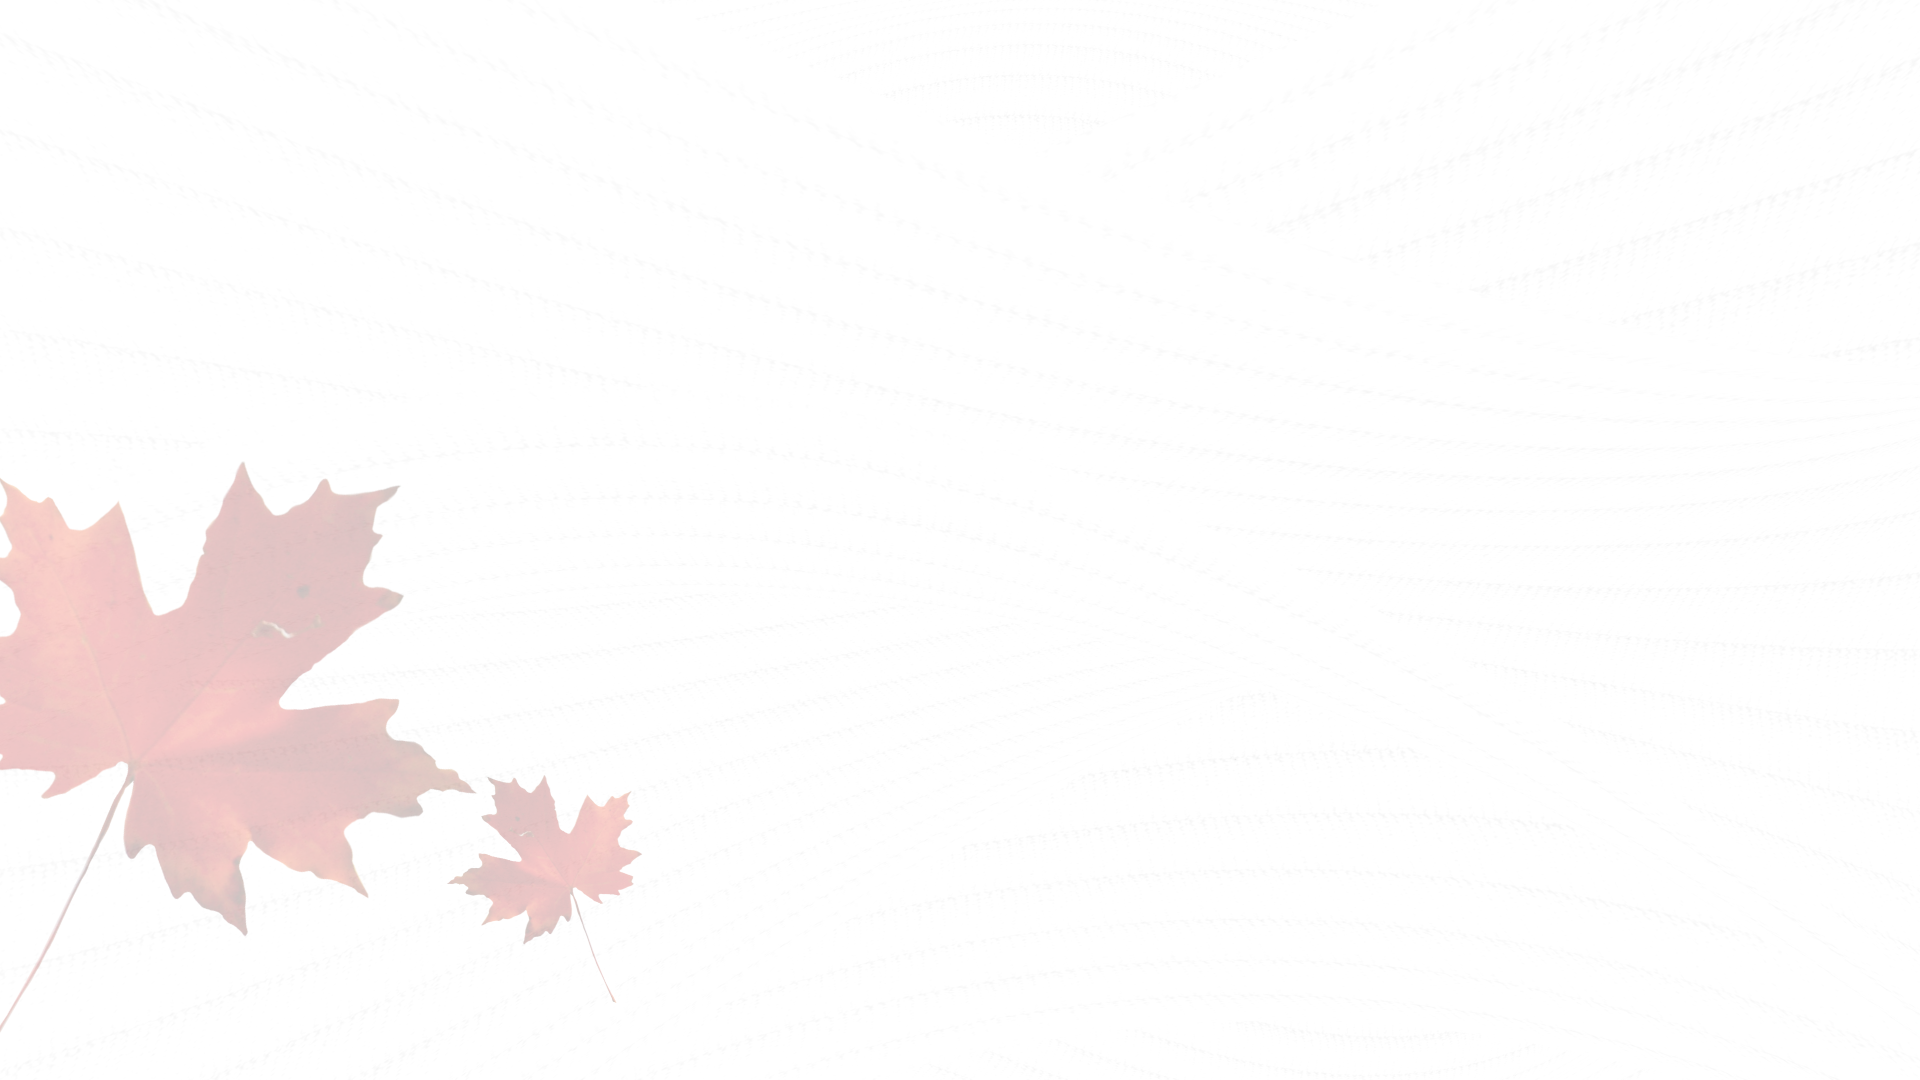
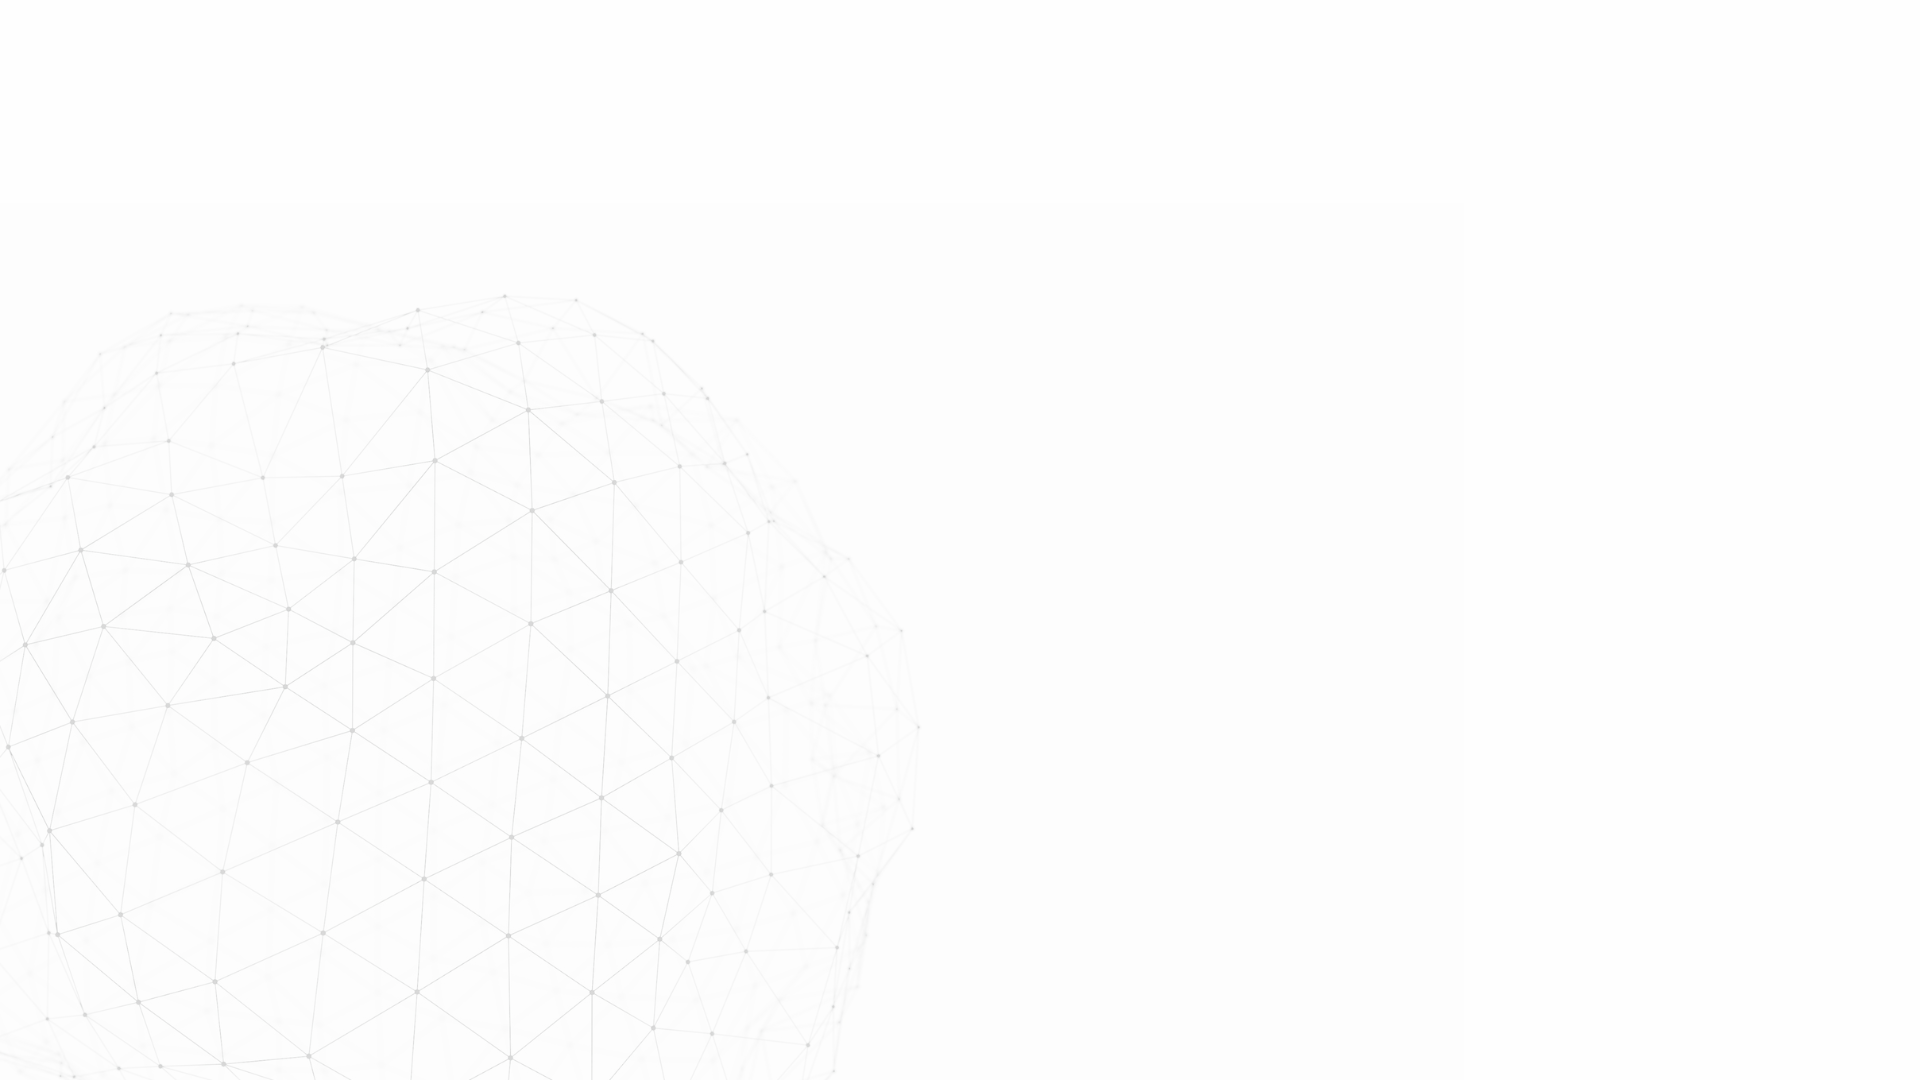
Tuong 16/6 lan 2

Changed region(s): [[0.0, 0.4278, 0.3438, 0.8861]]

diff --git a/index.html b/index.html
@@ -130,8 +130,7 @@
 
 
     <!-- About Section -->
-    <section id="about" class="about section">
-
+    <section id="about" class="about section" style="padding-bottom: 10px; margin-bottom: 0;">
       <div class="container" data-aos="fade-up">
         <div class="row gx-0">
 
@@ -161,71 +160,7 @@
 
     <!-- Values Section -->
     <section id="values" class="values section">
-
-      <!-- Section Title -->
-      <div class="container section-title" data-aos="fade-up">
-<p style="color: #CC4448;">OUR VALUES<br></p>
-      </div><!-- End Section Title -->
-
-      <div class="container">
-        
-        <div class="row gy-4">
-
-<div class="row">
-  <!-- Card 1 -->
-  <div class="col-lg-4" data-aos="fade-up" data-aos-delay="100">
-    <div class="card">
-      <img src="assets/img/Respect.png" class="img-fluid" alt="">
-      <h3 style="font-size: 35px; font-weight: 700; margin-top: 25px;">Respect</h3>
-    </div>
-  </div>
-
-  <!-- Card 2 -->
-  <div class="col-lg-4" data-aos="fade-up" data-aos-delay="200">
-    <div class="card">
-      <img src="assets/img/values-2.png" class="img-fluid" alt="">
-      <h3 style="font-size: 35px; font-weight: 700; margin-top: 25px;">Inclusiveness</h3>
-    </div>
-  </div>
-
-  <!-- Card 3 -->
-  <div class="col-lg-4" data-aos="fade-up" data-aos-delay="300">
-    <div class="card">
-      <img src="assets/img/Empathy.png" class="img-fluid" alt="">
-      <h3 style="font-size: 35px; font-weight: 700; margin-top: 25px;">Empathy</h3>
-    </div>
-  </div>
-</div>
-<div class="row mt-4">
-  <!-- Card 4 -->
-  <div class="col-lg-4" data-aos="fade-up" data-aos-delay="100">
-    <div class="card">
-<img src="assets/img/Learning.png" class="img-fluid">
-      <h3 style="font-size: 35px; font-weight: 700; margin-top: 25px;">Learning</h3>
-    </div>
-  </div>
-
-  <!-- Card 5 -->
-  <div class="col-lg-4" data-aos="fade-up" data-aos-delay="200">
-    <div class="card">
-      <img src="assets/img/Collaboration.png" class="img-fluid" alt="">
-      <h3 style="font-size: 35px; font-weight: 700; margin-top: 25px;">Collaboration</h3>
-    </div>
-  </div>
-
-  <!-- Card 6 -->
-  <div class="col-lg-4" data-aos="fade-up" data-aos-delay="300">
-    <div class="card">
-      <img src="assets/img/Passion.png" class="img-fluid" alt="">
-      <h3 style="font-size: 35px; font-weight: 700; margin-top: 25px;">Passion</h3>
-    </div>
-  </div>
-</div>
-        </div>
-      </div>
-    </section><!-- /Values Section -->
-
-<section id="services" class="services">
+<section id="services" class="services" style="padding-top: 10px; margin-top: 0;">
 <div class="container section-title" data-aos="fade-up">
         <p> Our Services<br></p>
       </div><!-- End Section Title -->
@@ -290,6 +225,13 @@
         </div>
       </div>
     </section><!-- /Services Section -->
+
+        <section id="clients" class="clients section">
+      <div class="container section-title" data-aos="fade-up">
+<p style="color: #0B102D;">Why Choose Us<br></p>
+   <hr class="divider">
+      </div>
+      </section>
     <!-- Clients Section -->
     <section id="clients" class="clients section">
       <div class="container section-title" data-aos="fade-up">
@@ -318,36 +260,44 @@
       </div>
     </section><!-- /Clients Section -->
   </main>
-
   <footer id="footer" class="footer">
 
-      <section class="fullwidth-cta py-5" style="background: #f9fbff;">
-      <div class="inner-cta mx-auto px-4 py-4 text-center text-lg-start rounded-4" 
-          style="max-width: 700px; background: #fff; box-shadow: 0 20px 60px rgba(0, 123, 255, 0.1);">
-        
-        <div class="d-flex flex-column flex-lg-row align-items-center justify-content-center gap-5 gap-4 gap-3 gap-1">
-          
-          <div>
-            <h2 class="cta-title mb-2">Get Started Today!</h2>
-            <p class="cta-subtitle mb-0">Let us know who you are</p>
-          </div>
-          <a href="#contact" class="btn btn-modern mt-3 mt-lg-0">CONTACT US</a>
-          </div>
-        </div>
-        </div>
-        </section>
+<section id="map-section" class="py-5" style="background: #f9fbff;">
+  <div class="container text-center position-relative">
+    <h2 class="mb-4" style="color: #CC4448;">Our Location</h2>
 
-  <section id="map-section" class="py-5" style="background: #f9fbff;">
-    <div class="container text-center">
-      <h2 class="mb-4" style="color: #CC4448;">Our Location</h2>
-      <div id="map"></div>
-    </div>
-  </section>
+    <!-- Theme filter dropdown (nút gọn bên phải map) -->
+<div class="map-theme-toggle">
+  <label class="map-switch">
+    <input type="checkbox" id="themeToggle">
+    <span class="map-slider"></span>
+  </label>
+</div>
 
-  <!-- Leaflet JS -->
-  <script src="https://unpkg.com/leaflet/dist/leaflet.js"></script>
-  <!-- Your custom JS file -->
-  <script src="map.js"></script>
+    <!-- Map container -->
+    <div id="map" style="height: 400px; width: 100%; border-radius: 10px;"></div>
+  </div>
+</section>
+
+<!-- Leaflet CSS -->
+<link rel="stylesheet" href="https://unpkg.com/leaflet/dist/leaflet.css" />
+<script src="https://unpkg.com/leaflet/dist/leaflet.js"></script>
+
+<style>
+  .map-theme-selector {
+    position: absolute;
+    top: 60px;
+    right: 30px;
+    z-index: 1000;
+    width: 100px;
+  }
+
+  .map-theme-selector select {
+    font-size: 14px;
+    padding: 2px 6px;
+    border-radius: 5px;
+  }
+</style>
 
    <div class="container footer-top">
   <div class="row gy-4">

diff --git a/assets/js/main.js b/assets/js/main.js
@@ -275,17 +275,90 @@
   });
 })();
 
-const myLatLng = [43.7140825,-79.6569542]; // Có thể thay bằng vị trí khác
+document.addEventListener("DOMContentLoaded", function () {
+  const myLatLng = [43.7140825, -79.6569542];
 
-// Tạo bản đồ và đặt vị trí trung tâm
-const map = L.map('map').setView(myLatLng, 15); // Zoom cấp 15
+  // Chỉ tạo map khi chắc chắn #map đã có kích thước chính xác
+  function createMap() {
+    const map = L.map('map').setView(myLatLng, 15);
 
-// Thêm layer OpenStreetMap
-L.tileLayer('https://{s}.tile.openstreetmap.org/{z}/{x}/{y}.png', {
-  attribution: '&copy; OpenStreetMap contributors'
-}).addTo(map);
+    L.tileLayer('https://{s}.tile.openstreetmap.org/{z}/{x}/{y}.png', {
+      attribution: '&copy; OpenStreetMap contributors'
+    }).addTo(map);
 
-// Thêm đánh dấu và popup
-L.marker(myLatLng).addTo(map)
-  .bindPopup('<strong>7560 Airport Rd Suite 14</strong><br>Mississauga, ON')
-  .openPopup();
+    L.marker(myLatLng).addTo(map)
+      .bindPopup('<strong>7560 Airport Rd Suite 14</strong><br>Mississauga, ON')
+      .openPopup();
+
+    // Dùng observer để gọi invalidateSize khi #map hiển thị
+    const observer = new IntersectionObserver(entries => {
+      entries.forEach(entry => {
+        if (entry.isIntersecting) {
+          setTimeout(() => {
+            map.invalidateSize();
+          }, 300);
+        }
+      });
+    }, {
+      threshold: 0.3
+    });
+    observer.observe(document.getElementById('map'));
+  }
+
+  // Gọi sau khi trang load hoàn toàn
+  window.addEventListener("load", function () {
+    // Đợi thêm 300ms cho AOS layout xong
+    setTimeout(() => {
+      createMap();
+    }, 600);
+  }); 
+});
+
+// Khởi tạo map
+// Khởi tạo map
+const map = L.map('map').setView([43.7140825, -79.6569542], 15);
+
+// Các tile layers
+const lightTile = L.tileLayer('https://tiles.stadiamaps.com/tiles/alidade_smooth/{z}/{x}/{y}{r}.png', {
+  attribution: '&copy; OpenStreetMap & CartoDB'
+});
+
+const darkTile = L.tileLayer('https://tiles.stadiamaps.com/tiles/alidade_smooth_dark/{z}/{x}/{y}{r}.png', {
+  attribution: '&copy; OpenStreetMap & CartoDB'
+});
+
+// Ban đầu là light
+lightTile.addTo(map);
+
+const emojiIcon = L.divIcon({
+  html: '📍',
+  className: 'custom-emoji-marker',
+  iconSize: [30, 30],
+  iconAnchor: [15, 30]
+});
+
+// Marker
+L.marker([43.7140825, -79.6569542], { icon: emojiIcon })
+  .addTo(map)
+  .on('click', () => {
+    window.open('https://www.google.com/maps?q=43.7140825,-79.6569542', '_blank');
+  });
+
+// Bắt toggle switch
+const toggle = document.getElementById('themeToggle');
+
+toggle.addEventListener('change', function () {
+  if (this.checked) {
+    map.removeLayer(lightTile);
+    darkTile.addTo(map);
+  } else {
+    map.removeLayer(darkTile);
+    lightTile.addTo(map);
+  }
+});
+
+
+
+
+
+

diff --git a/assets/css/main.css b/assets/css/main.css
@@ -2927,3 +2927,83 @@ section,
   color: color-mix(in srgb, var(--default-color), transparent 60%);
   font-size: 14px;
 }
+
+#map {
+  height: 400px;
+  width: 100%;
+  display: block;
+}
+
+#mapThemeSelect {
+  padding: 5px 12px;
+  border-radius: 20px;
+  border: 1px solid #ccc;
+  font-size: 14px;
+  background-color: white;
+  color: #333;
+  box-shadow: 0 2px 6px rgba(0,0,0,0.1);
+  cursor: pointer;
+}
+
+.map-theme-toggle {
+  position: absolute;
+  top: 16px;
+  right: 16px;
+  z-index: 1000;
+}
+
+/* Toggle Switch */
+.map-switch {
+  position: relative;
+  display: inline-block;
+  width: 50px;
+  height: 28px;
+}
+
+.map-switch input {
+  opacity: 0;
+  width: 0;
+  height: 0;
+}
+
+.map-slider {
+  position: absolute;
+  cursor: pointer;
+  inset: 0;
+  background-color: #ccc;
+  transition: 0.4s;
+  border-radius: 34px;
+}
+
+.map-slider::before {
+  position: absolute;
+  content: "🌞";
+  height: 22px;
+  width: 22px;
+  left: 3px;
+  bottom: 3px;
+  background-color: white;
+  border-radius: 50%;
+  transition: 0.4s;
+  line-height: 22px;
+  text-align: center;
+  font-size: 13px;
+}
+
+input:checked + .map-slider {
+  background-color: #444;
+}
+
+input:checked + .map-slider::before {
+  transform: translateX(22px);
+  content: "🌙";
+}
+
+.custom-emoji-marker {
+  font-size: 28px;
+  text-align: center;
+  line-height: 1;
+}
+
+
+
